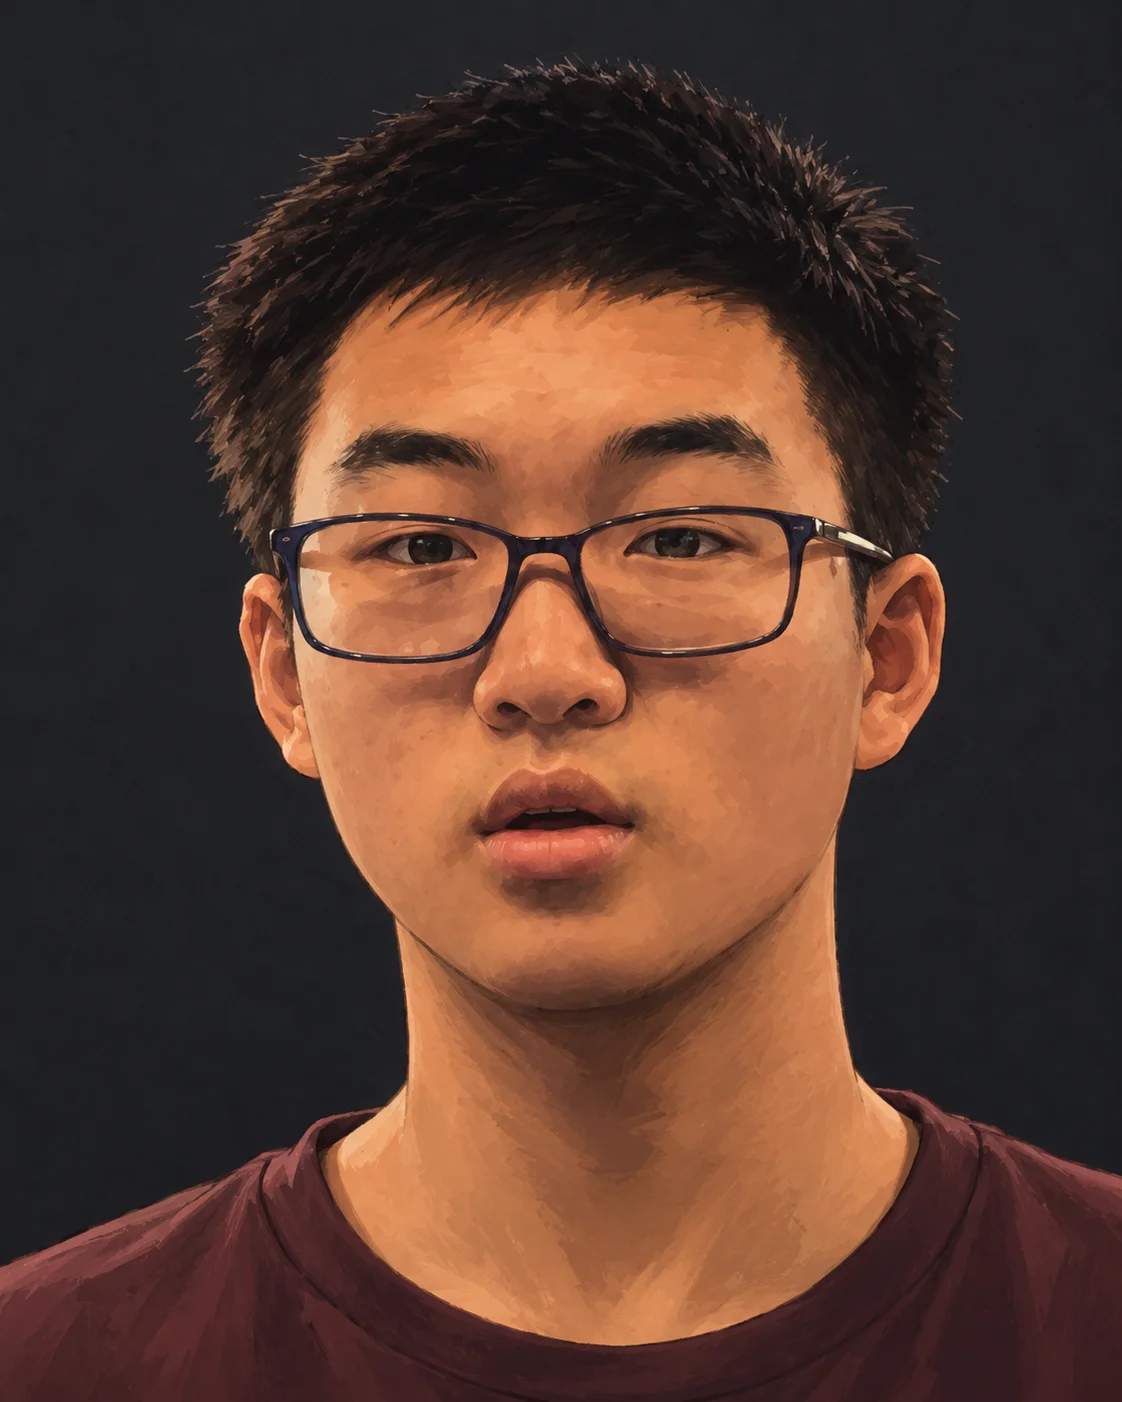
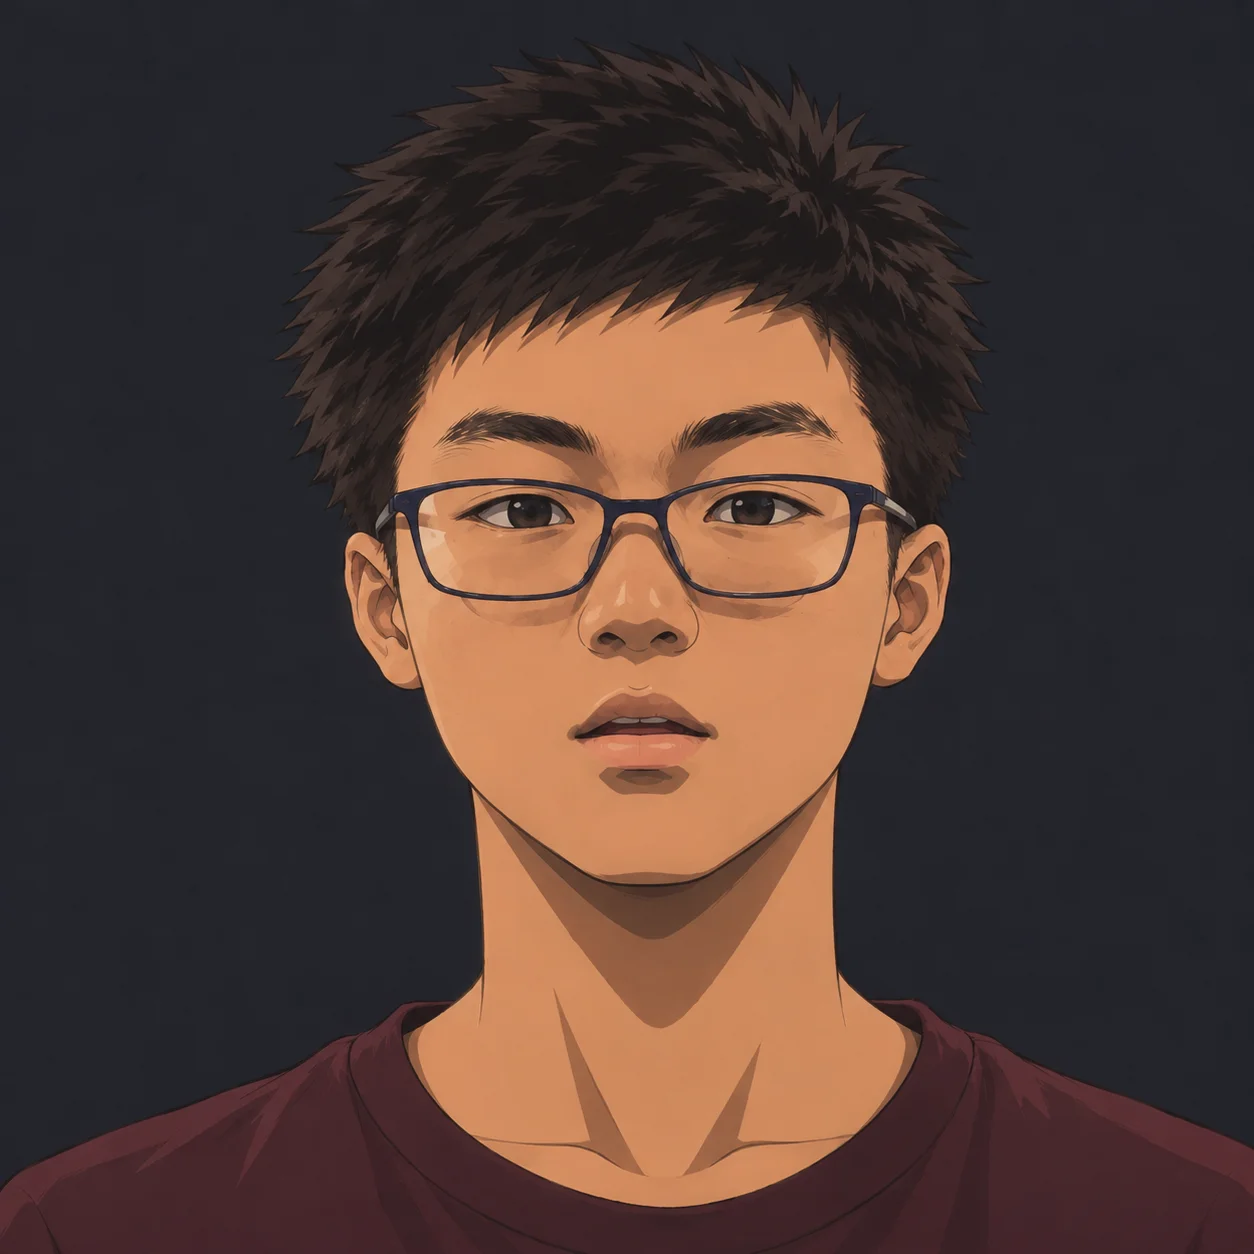
pfp chnages

diff --git a/Prophylaxis/src/play/opponents.ts b/Prophylaxis/src/play/opponents.ts
@@ -114,8 +114,8 @@ export const PERSONALITY_OPPONENTS: readonly OpponentProfile[] = [
     style:
       'The greatest player of all time (Not really). How fast can you win?',
     portraitPath: 'opponents/emmanuel.webp',
-    /* He is the one portrait framed taller than it is wide, and it is already
-       painted tight: the shared 1.2 zoom would crop the beanie and the hood. */
+    /* It is already painted tight: the shared 1.2 zoom would crop the beanie
+       and the hood. */
     portraitScale: 1,
     initials: 'ED',
     usesRepertoire: false,
@@ -282,10 +282,9 @@ export const PERSONALITY_OPPONENTS: readonly OpponentProfile[] = [
     initials: 'NY',
     usesRepertoire: false,
   },
-  /* Brandon before Prime: the same person and the same portrait, one rung down
-     the ladder at 1600. The shared portrait is deliberate — it is the same
-     player at an earlier stage — and the subtext and rating tell the two cards
-     apart. */
+  /* Brandon before Prime: the same person, one rung down the ladder at 1600.
+     Each version carries its own portrait of the same player at that stage, so
+     the subtext and rating tell the two cards apart. */
   {
     id: 'brandon-freshman',
     kind: 'personality',
@@ -297,6 +296,9 @@ export const PERSONALITY_OPPONENTS: readonly OpponentProfile[] = [
     style:
       'Starting off strong in his freshman year, but his signature "funk" throws opponents off completely. Will you smell the funk and falter?',
     portraitPath: 'opponents/brandon-freshman.webp',
+    /* Framed close in the source, like Faadi's: the shared zoom would clip his
+       hair, so the whole square shows. */
+    portraitScale: 1,
     initials: 'BT',
     usesRepertoire: false,
   },
@@ -345,6 +347,9 @@ export const PERSONALITY_OPPONENTS: readonly OpponentProfile[] = [
     elo: 2350,
     style: 'A player who once rivaled with the best of the best. Do you actually have what it takes to best him in his prime?',
     portraitPath: 'opponents/brandon.webp',
+    /* Framed close in the source, like his Freshman card: the shared zoom would
+       clip his hair, so the whole square shows. */
+    portraitScale: 1,
     initials: 'BT',
     usesRepertoire: false,
   },
